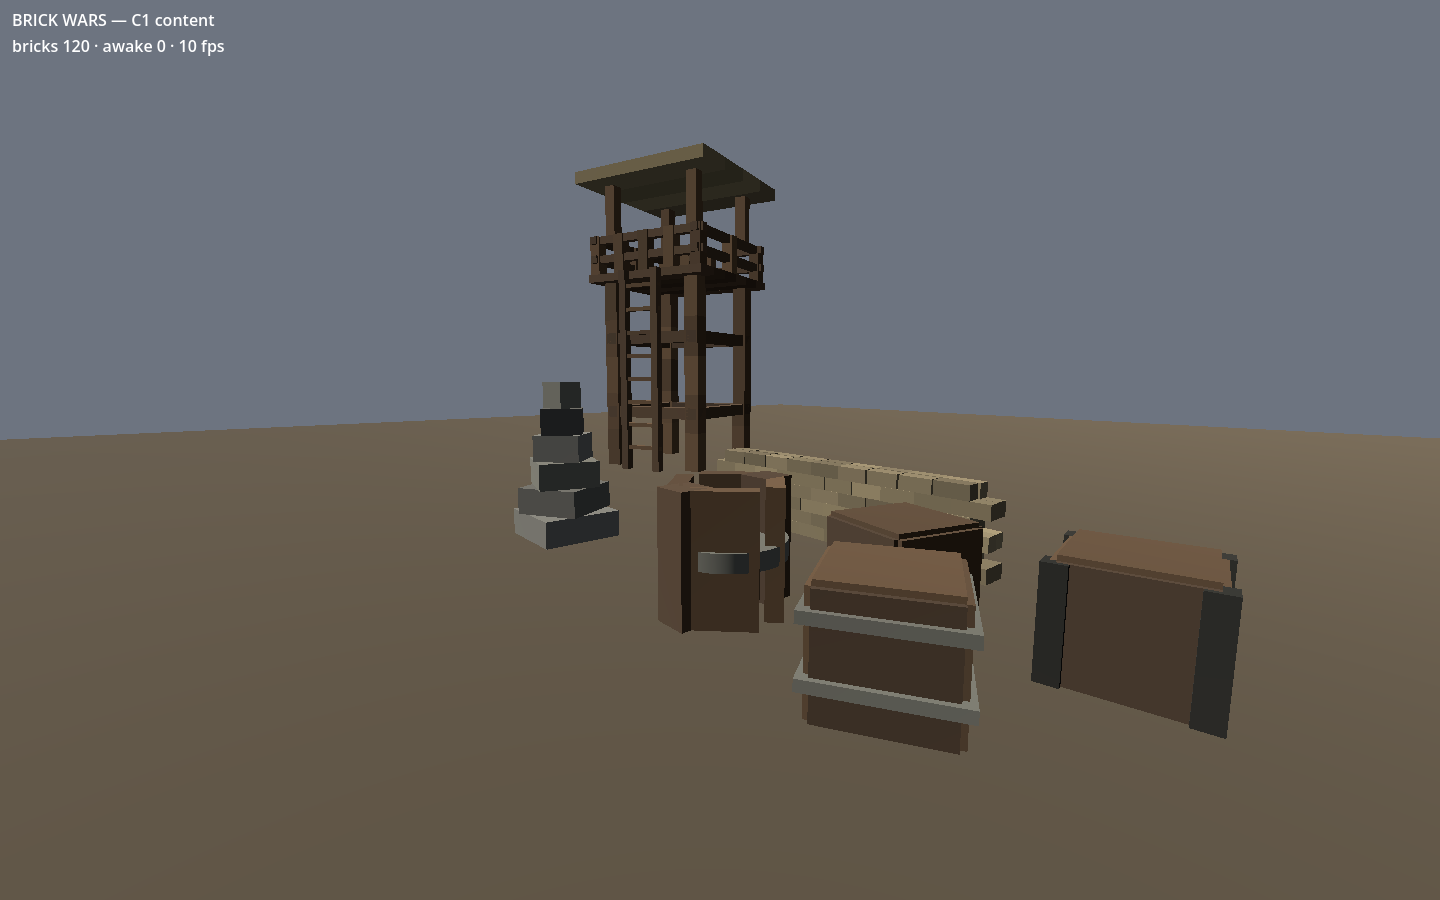
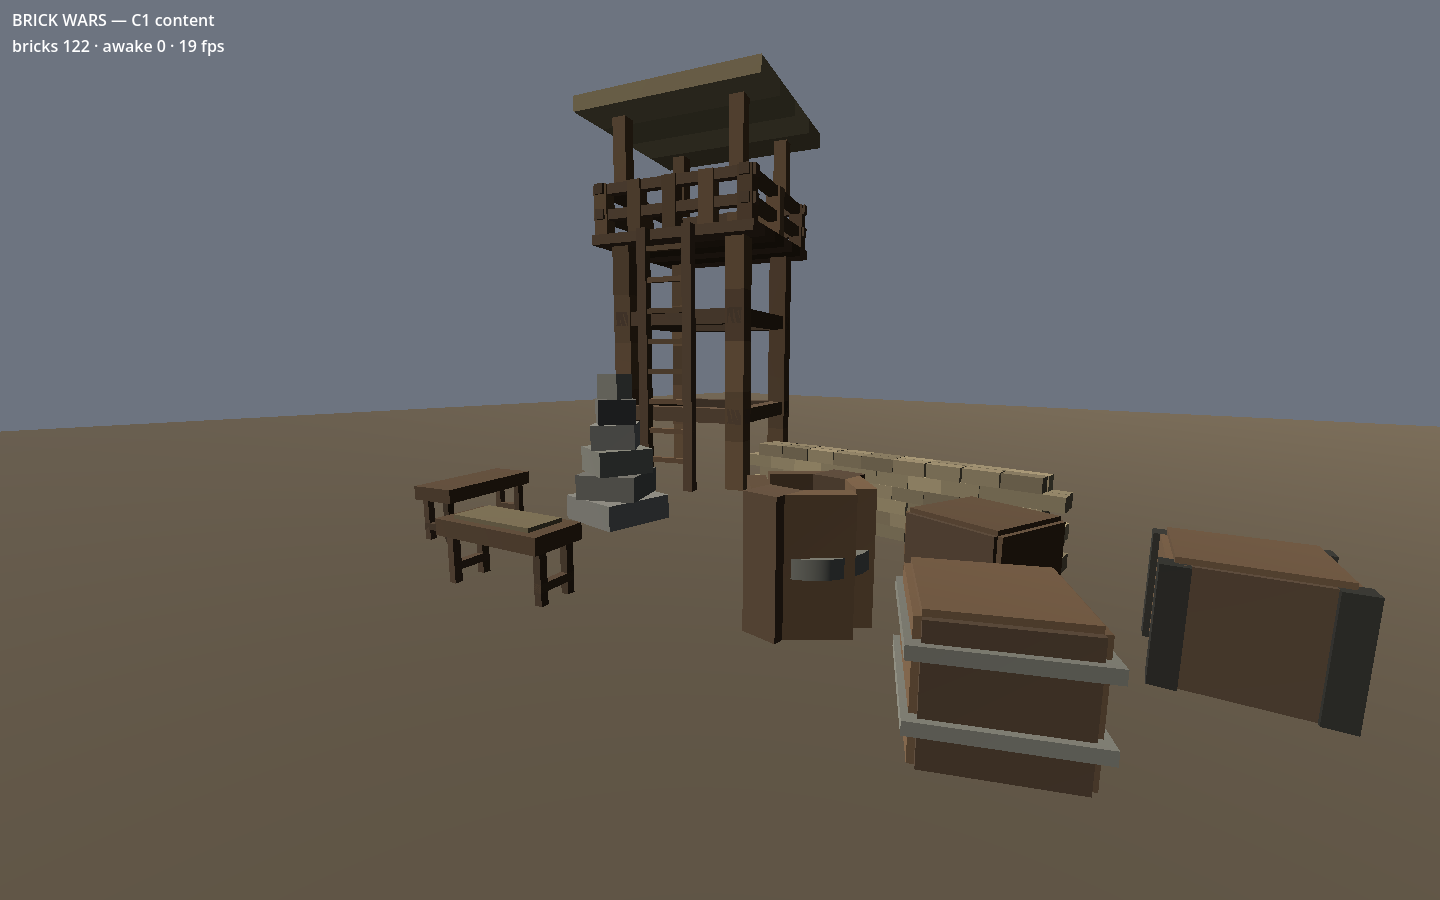
C1 closed: the done-condition, walked in its own order
BUILD-ORDER asked three things of this milestone and they are answered
against the shipped game rather than a harness.

One: a new prop is a JSON file and nothing else. packs/core/table.json
went in, the boot log went from 7 assets to 8, and no code was touched to
make that happen — no registration, no manifest entry, no builder case.

Two: a variant costs five lines and --resolve says where every field came
from. packs/core/table_map.json is that table with a canvas sheet on it,
seven lines including the braces, and the dump attributes forty-odd
fields to core:table or core:table_map individually.

Three: a pack that is wrong fails loudly and alone. Already true as of
the last commit; re-checked here with the enlarged content set, since
"takes nothing else down with it" is a claim about whatever happens to be
standing next to it.

Both tables stay in the sandbox. Deleting the demonstration after
demonstrating it is how a done-condition becomes a story about something
that used to work, and they are era-neutral furniture the world was short
of anyway. They are also the first shipped assets I authored to close a
milestone rather than to build one, which is worth Marissa's eye.

content stops declaring itself a stub. The bar for that was the sentence
above and not "there is code in it now" — the module has had code in it
for three commits. Nine of thirteen still declare honestly.

Two tests changed rather than being edited to agree with the new numbers.
[…]

Changed region(s): [[0.0, 0.0622, 1.0, 0.9022]]

diff --git a/game/README.md b/game/README.md
@@ -12,12 +12,23 @@ Open `game/` in Godot and press play, or from the repo root:
     ./tools/check.sh                                     # run the whole gate
     ./tools/screenshot.sh docs/c1_sandbox.png            # take a picture of it
 
+and three diagnostic flags, which go after `--` because everything before it is Godot's:
+
+    godot --headless --path game -- --resolve core:table_map      # every field, and who set it
+    godot --headless --path game -- --resolve core:barrel --part hoop
+    godot --headless --path game -- --pack-root res://tests/fixtures/broken
+
 There is still nothing to *do*. What there is, is a world made entirely out of files: a
-sandbag wall, a watchtower, three crates and a barrel from `packs/core`, plus a cairn and a
-reinforced crate from `packs/testpack` — every one of them read, resolved, validated and
-built through the same path a workshop upload would take. The HUD counts bricks and how
-many are still awake; that second number reaching zero and staying there is inherited from
-C0 and still the cheapest proof the physics is behaving.
+sandbag wall, a watchtower, three crates, a barrel and two tables from `packs/core`, plus a
+cairn and a reinforced crate from `packs/testpack` — every one of them read, resolved,
+validated and built through the same path a workshop upload would take. The HUD counts
+bricks and how many are still awake; that second number reaching zero and staying there is
+inherited from C0 and still the cheapest proof the physics is behaving.
+
+The two tables are there because they are what closed the milestone. `core:table` was added
+to the game by writing one JSON file and touching nothing else, and `core:table_map` is that
+table with a canvas sheet on it, in five lines of `extends`. Neither needed a line of code,
+which was the entire question C1 was asked.
 
 ![the C1 sandbox](docs/c1_sandbox.png)
 
@@ -35,8 +46,10 @@ Modules talk to each other through `use()`, and `use()` refuses any module the c
 not declare in `module_depends()`. That refusal is the point: declaring a dependency is a
 deliberate act visible in a diff, and reaching for a global is not.
 
-Ten of the thirteen modules are stubs. They say so — `module_is_stub()` returns true and
-the test suite prints the count — so a skeleton is never mistaken for a core.
+Nine of the thirteen modules are stubs. They say so — `module_is_stub()` returns true and
+the boot log prints the count — so a skeleton is never mistaken for a core. `content` came
+off that list at C1, and the bar for coming off it is the milestone's own done-condition
+rather than "has code in it now".
 
 ## What's real at C1
 
@@ -54,9 +67,17 @@ the test suite prints the count — so a skeleton is never mistaken for a core.
   rewrite.
 - **`ui`** — two numbers in the corner.
 
+`core/cli.gd` is the command line, and everything in it is a *diagnostic*. That is a policy,
+not an accident: the moment a flag can change how the game plays, two people running the
+same build are running different games and neither of them knows it. `--resolve` prints an
+asset as the game sees it with every field attributed to the document that set it, which is
+what stops `extends` being a trap. `--pack-root` loads a pack folder beside the shipped ones
+without installing it — the authoring loop, and also how `tests/fixtures/broken` proves that
+a pack which is wrong gets disabled with a reason and takes nothing else down with it.
+
 Each module gets one line in the boot log via `summary()`, which is the cheapest diagnostic
-in the project. If the palette loses a colour or the sandbox builds six assets instead of
-seven, it shows up there rather than in a screenshot somebody has to squint at — and the
+in the project. If the palette loses a colour or the sandbox builds eight assets instead
+of nine, it shows up there rather than in a screenshot somebody has to squint at — and the
 mass column is how the 540 kg sandbag got caught.
 
 ## Rules that are enforced, not suggested

diff --git a/CHECKLIST.md b/CHECKLIST.md
@@ -149,6 +149,15 @@ Inheritance (`FORMAT-SPEC` §6, decided 30 Jul — full cross-pack, depth 3):
       claims and what renaming one costs, extended assets as public interface, the two
       diagnostic commands with the broken fixture as a worked example, and the six rules that
       catch a first upload
+- [x] **C1 closed, 30 Jul** — the done-condition walked in its own order against the shipped
+      game. `packs/core/table.json` is a prop that entered the game as one file and nothing
+      else (7 assets → 8, no code touched). `packs/core/table_map.json` is a variant of it in
+      five lines. `--resolve` attributes every field of the result to the file that set it.
+      `--pack-root res://tests/fixtures/broken` disables two bad packs and boots the other
+      nine assets regardless. `content` stops declaring itself a stub; nine of thirteen
+      modules still do. `case_cli.gd` asserts all of it so it stays true.
+      **Worth your eye — the two tables are new shipped content I authored to close the
+      milestone, and they stayed in the sandbox rather than being deleted afterwards**
 
 ## 2 · Soldier: locomotion & body
 

diff --git a/BUILD-ORDER.md b/BUILD-ORDER.md
@@ -193,6 +193,15 @@ a variant of that prop costs five lines via `extends` and `--resolve` shows me w
 field came from; and a deliberately broken pack fails with a message that says exactly
 why, without taking anything else down with it.
 
+**Done, 30 Jul.** Walked in that order, against the shipped game rather than a harness.
+`packs/core/table.json` went in as one file and the asset count went 7 → 8 with no code
+touched. `packs/core/table_map.json` is five lines of `extends` on top of it, and
+`--resolve core:table_map` prints all forty-odd fields with `← core:table` or
+`← core:table_map` against each. `--pack-root res://tests/fixtures/broken` disables two
+packs that are wrong on purpose — naming file, line, value and rule, all four of one pack's
+problems at once — while the other nine assets boot untouched. `content` stops reporting
+itself a stub here; nine of thirteen modules still do.
+
 ### C2 · Rigs, IK & the soldier
 
 The kinematic rig system, joint types with limits, the two-bone IK solver, foot planting,
